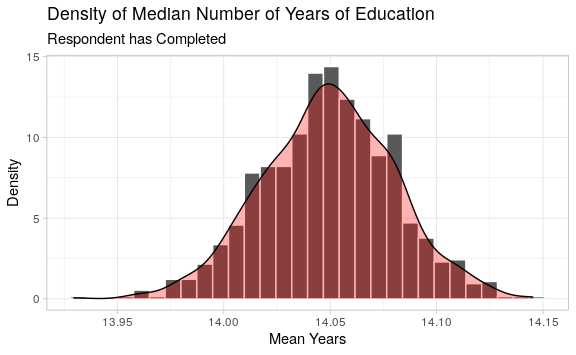
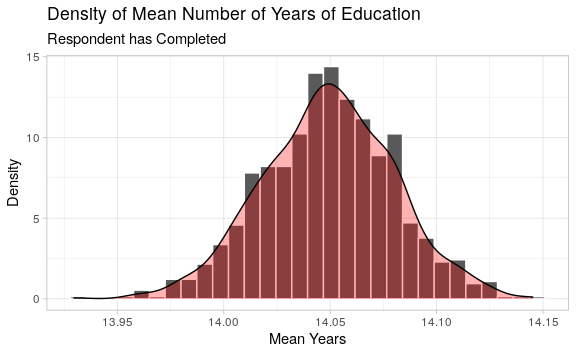
final update: 11/17

Changed region(s): [[0.25, 0.0, 0.75, 0.062]]

diff --git a/project06.md b/project06.md
@@ -225,7 +225,7 @@ boot_educ_means %>%
   geom_density(fill = "red", alpha = 0.3) +
   theme_light() +
   labs(
-    title = "Density of Median Number of Years of Education",
+    title = "Density of Mean Number of Years of Education",
     subtitle = "Respondent has Completed",
     x = "Mean Years",
     y = "Density"
